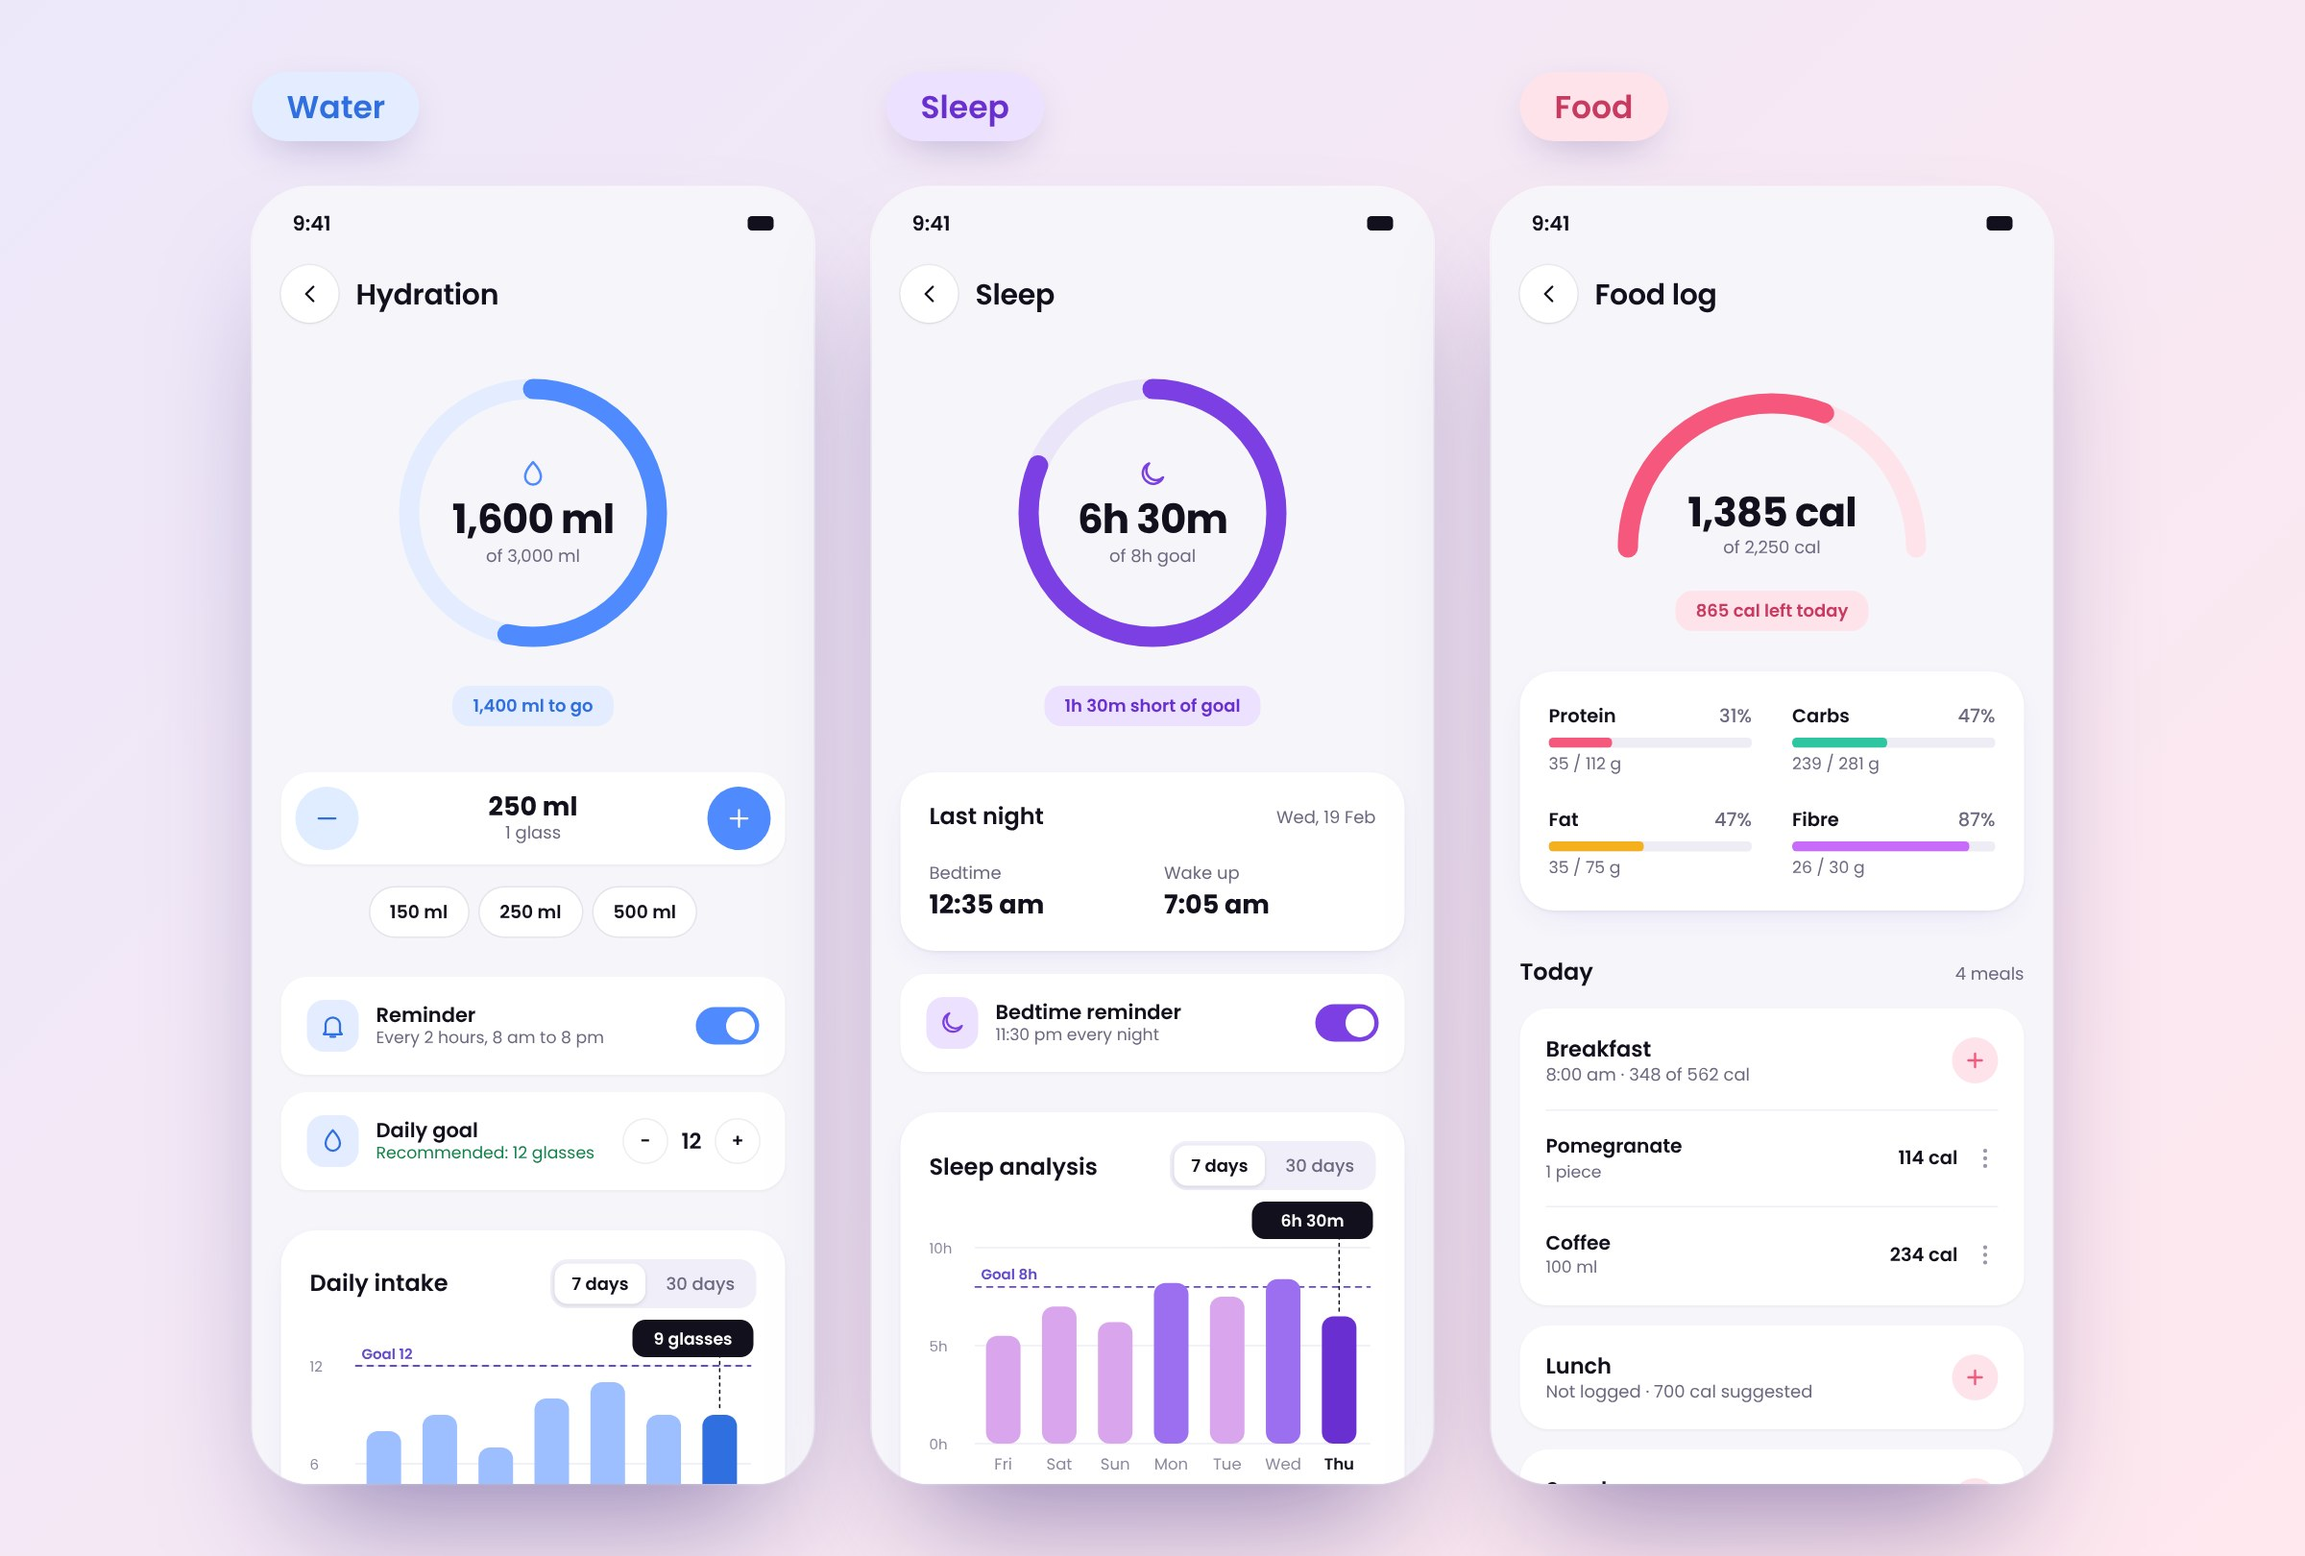
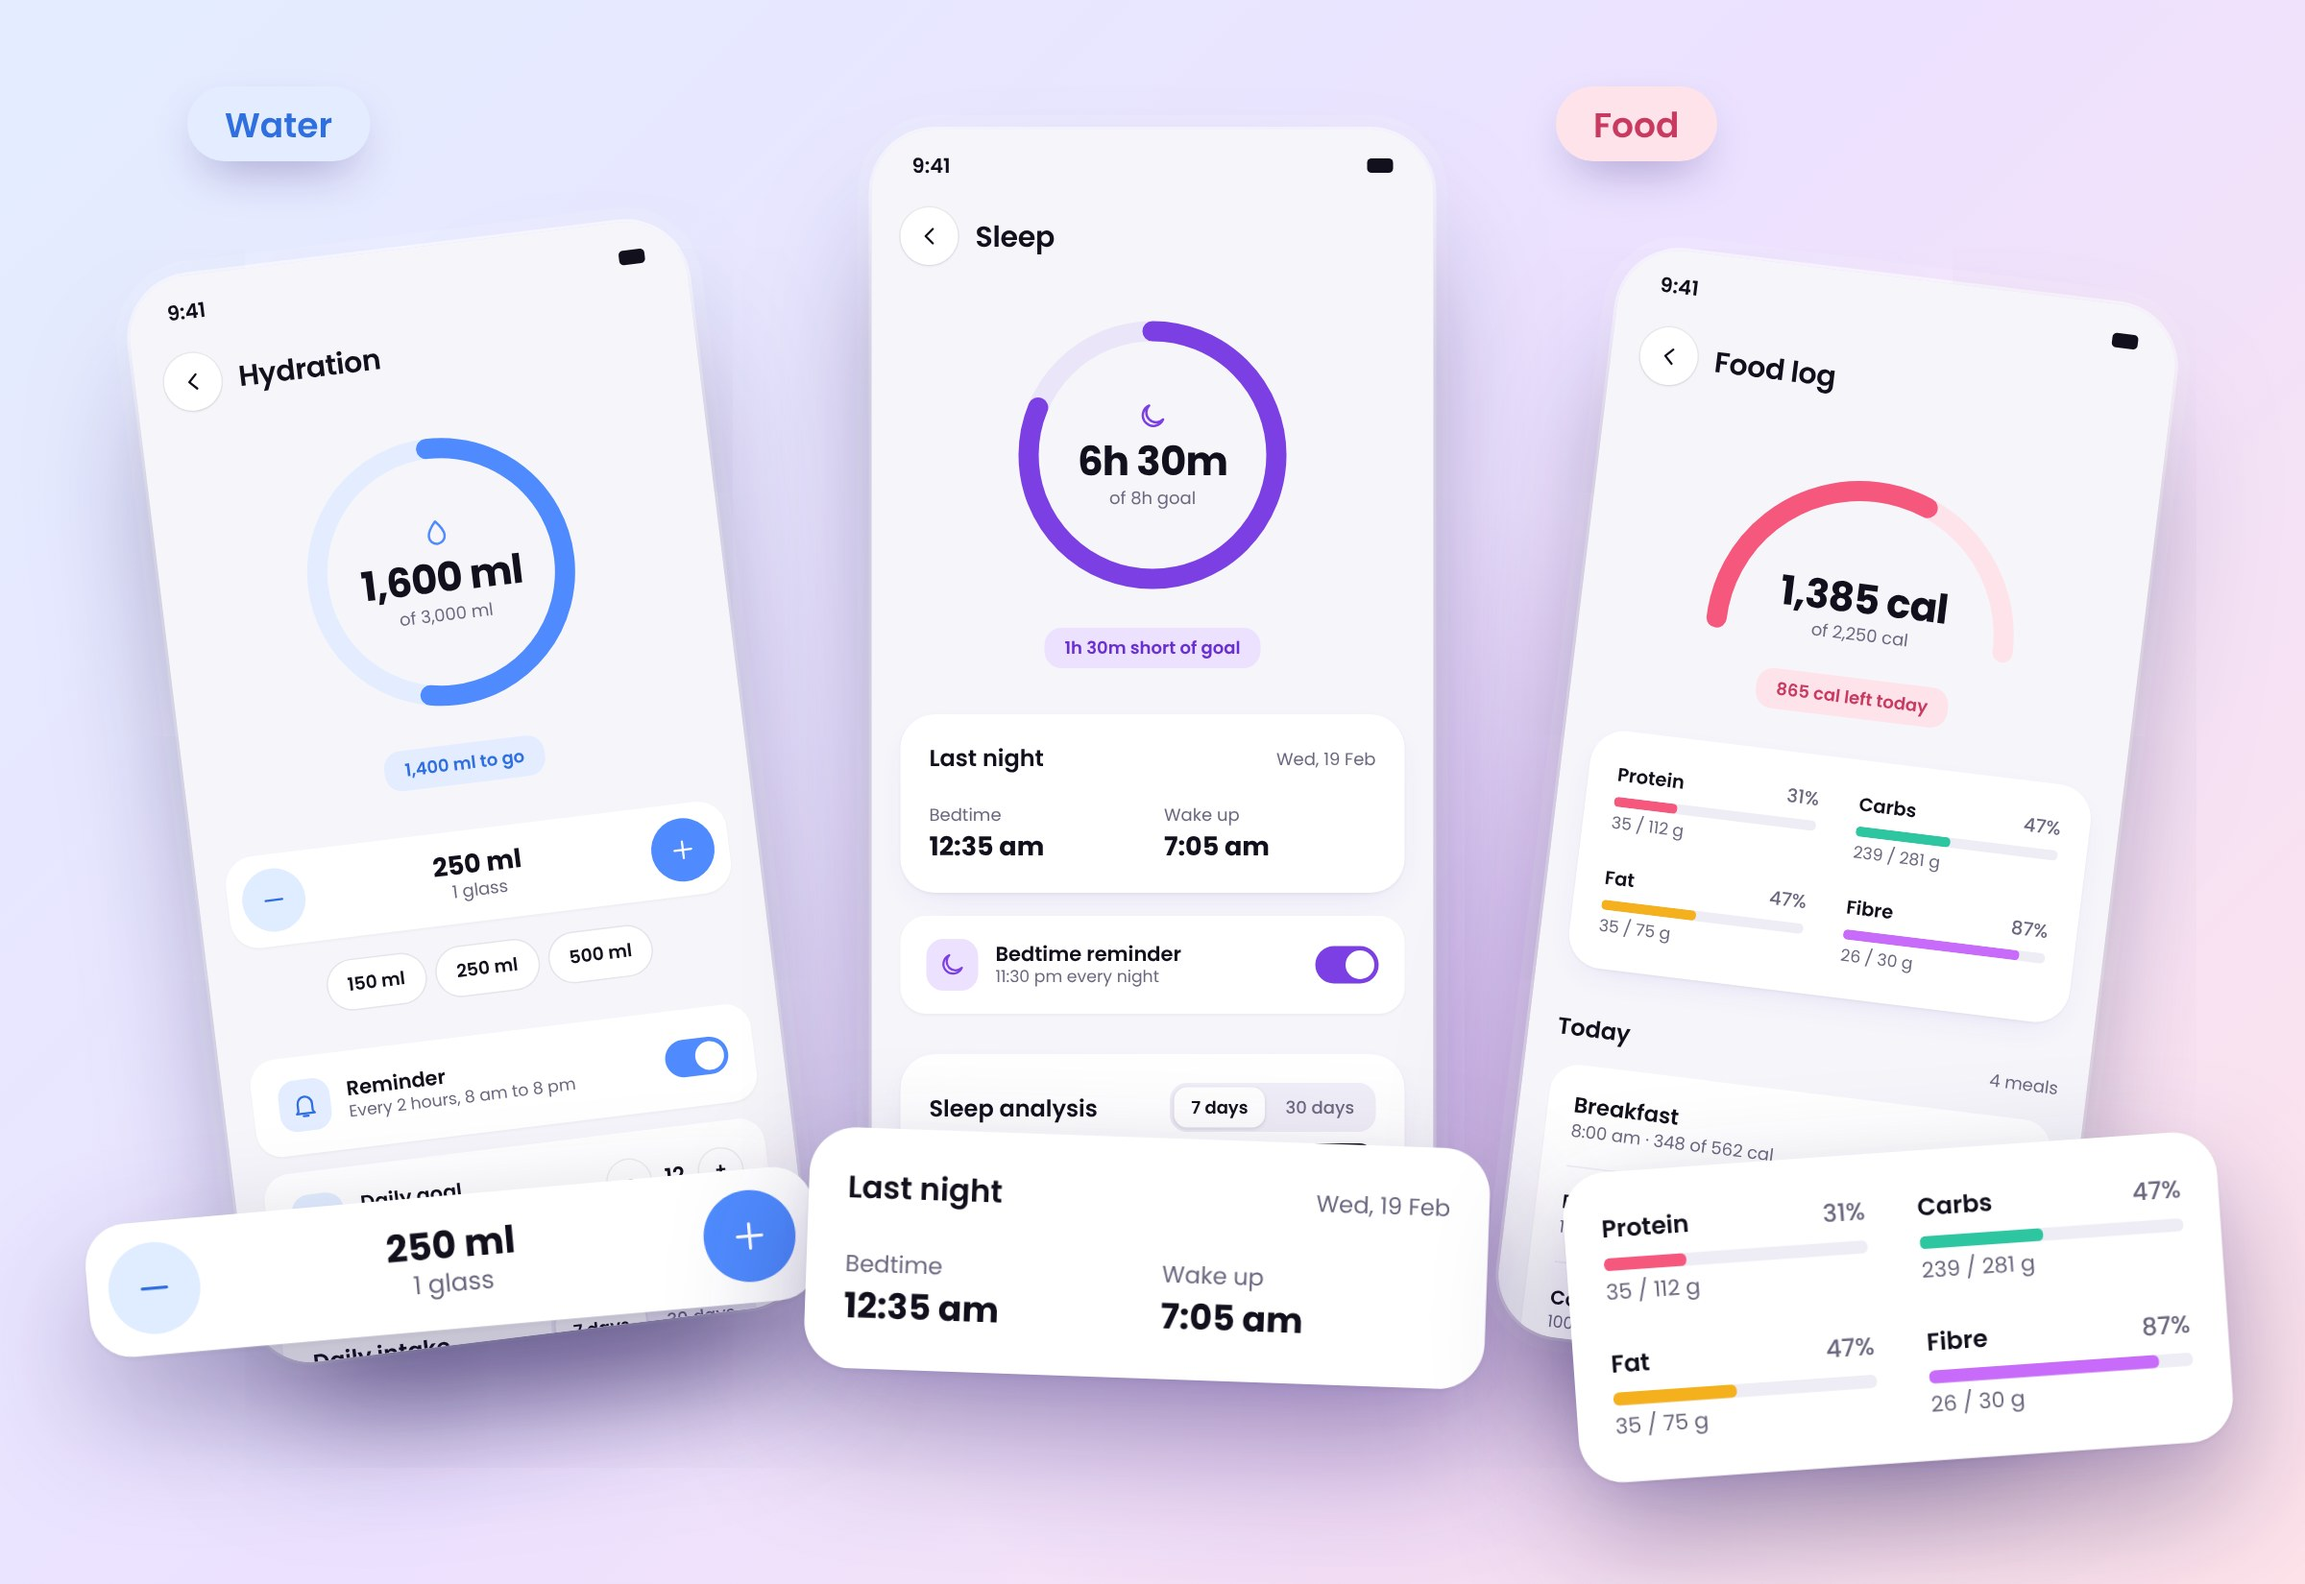
Zync gallery: feature-focused mockups with depth, captions on the images
Claude-Session: https://claude.ai/code/session_01AhwauZPbiH6zWqz2ZAw47t

diff --git a/src/data/galleries.ts b/src/data/galleries.ts
@@ -46,15 +46,15 @@ export const GALLERIES: Record<string, GalleryConfig> = {
       mark: { src: '/brand/zync-mark.png', ratio: 170 / 188 },
     },
     images: [
-      zync('04-ring-chart.jpg', 1500, 'The calorie ring beside the weekly water intake chart', 'A ring for today, a chart for the week.'),
-      zync('02-home.jpg', 1725, 'The refined Zync Home screen on a pink and violet ground', "The member's day on one scroll."),
-      zync('03-annotated.jpg', 1725, 'Zync Home with four callouts: QR check-in, gym switcher, calorie toggle and next class', 'Gym access on top, the day below.'),
-      zync('05-trackers.jpg', 1620, 'Hydration, Sleep and Food log screens side by side', 'Three trackers, one pattern.'),
-      zync('07-states.jpg', 840, 'Three class cards: available, full with waitlist, booked', "A class's status shows before the tap."),
-      zync('08-gym.jpg', 1500, 'Gym Activity, Gym Events and the Log sheet', 'Check-in, classes and logging, one tap from the nav.'),
-      zync('09-workout.jpg', 1500, 'Sign up, Workout plans and a workout detail screen', 'From sign-up to a workout plan in three screens.'),
-      zync('06-layouts.jpg', 1110, 'Five earlier Home layouts next to the refined Home', 'Five Home layouts tried, then one refined.'),
-      zync('01-system.jpg', 1500, 'Zync logo, colour palette, type scale and components on one board', 'Colour and type were set before any screen.'),
+      zync('01-hero.jpg', 1740, 'Three refined Zync screens in perspective around the Home screen', 'Zync, the member side of Pulsefit.'),
+      zync('02-ring.jpg', 1500, 'The calorie ring pulled out of the Home screen with "300 cal to go"', 'A ring for today: burned against the goal, and what is left.'),
+      zync('03-checkin.jpg', 1500, 'The Gym tab beside a large QR check-in card', 'Check-in is one tap from the Gym tab.'),
+      zync('04-classes.jpg', 1500, 'Three class cards fanned out: available, full with waitlist, booked', "A class's status shows before the tap."),
+      zync('05-trackers.jpg', 1650, 'Hydration, Sleep and Food screens with their key cards pulled forward', 'Water, sleep and food follow one pattern.'),
+      zync('06-log.jpg', 1500, 'The Log sheet with Water and Food shortcuts pulled forward and the quick-add chips', 'Every shortcut shows today\'s progress.'),
+      zync('07-workout.jpg', 1500, 'A workout plan card and exercise list around the workout detail screen', 'Level and length on every plan card.'),
+      zync('08-layouts.jpg', 1500, 'Five earlier Home layouts fanned out beside the refined Home', 'Five Home layouts tried, then one refined.'),
+      zync('09-system.jpg', 1500, 'Zync logo, colour palette, type scale and components', 'Colour and type were set before any screen.'),
     ],
   },
 }

diff --git a/src/components/GalleryCaseStudy.tsx b/src/components/GalleryCaseStudy.tsx
@@ -119,26 +119,23 @@ export default function GalleryCaseStudy({
         </Reveal>
 
         <p className="mx-auto mt-[clamp(56px,9vh,104px)] mb-0 max-w-[var(--max)] text-[14px] leading-[1.5] text-faint">
-          Screens are refined for this portfolio, and the figures in them are sample data. The earlier layouts sit next to the refined Home below.
+          Screens are refined for this portfolio, and the figures in them are sample data. Five earlier Home layouts sit next to the refined one near the end.
         </p>
 
-        <ol className="m-0 mt-6 flex list-none flex-col gap-[clamp(40px,7vh,80px)] p-0">
+        <ol className="m-0 mt-6 flex list-none flex-col gap-[clamp(12px,1.6vw,24px)] p-0">
           {images.map((img, i) => (
             <li key={img.src}>
-              <Reveal as="figure" className="m-0">
-                <div className="overflow-hidden rounded-[clamp(18px,2.4vw,32px)] bg-[var(--c-soft)] shadow-[0_0_0_1px_rgba(0,0,0,0.05)]">
-                  <img
-                    className="block h-auto w-full"
-                    src={img.src}
-                    width={img.width}
-                    height={img.height}
-                    alt={img.alt}
-                    loading={i < 2 ? 'eager' : 'lazy'}
-                    decoding="async"
-                  />
-                </div>
-                <figcaption className="mt-4 flex items-baseline gap-3 text-[15px] leading-[1.4] font-medium text-muted">
-                  <span aria-hidden="true" className="mt-[0.45em] size-[7px] shrink-0 rounded-full bg-[var(--c-pop)]" />
+              <Reveal as="figure" className="relative m-0 overflow-hidden rounded-[clamp(18px,2.4vw,32px)] bg-[var(--c-soft)]">
+                <img
+                  className="block h-auto w-full"
+                  src={img.src}
+                  width={img.width}
+                  height={img.height}
+                  alt={img.alt}
+                  loading={i < 2 ? 'eager' : 'lazy'}
+                  decoding="async"
+                />
+                <figcaption className="absolute bottom-[clamp(10px,1.6vw,24px)] left-[clamp(10px,1.6vw,24px)] max-w-[calc(100%-2*clamp(10px,1.6vw,24px))] rounded-full bg-white/90 px-[clamp(12px,1.2vw,18px)] py-[clamp(6px,0.7vw,10px)] text-[clamp(11px,1vw,14px)] leading-[1.3] font-medium text-ink shadow-[0_6px_20px_-8px_rgba(40,20,110,0.35)] backdrop-blur-[10px]">
                   {img.caption}
                 </figcaption>
               </Reveal>
